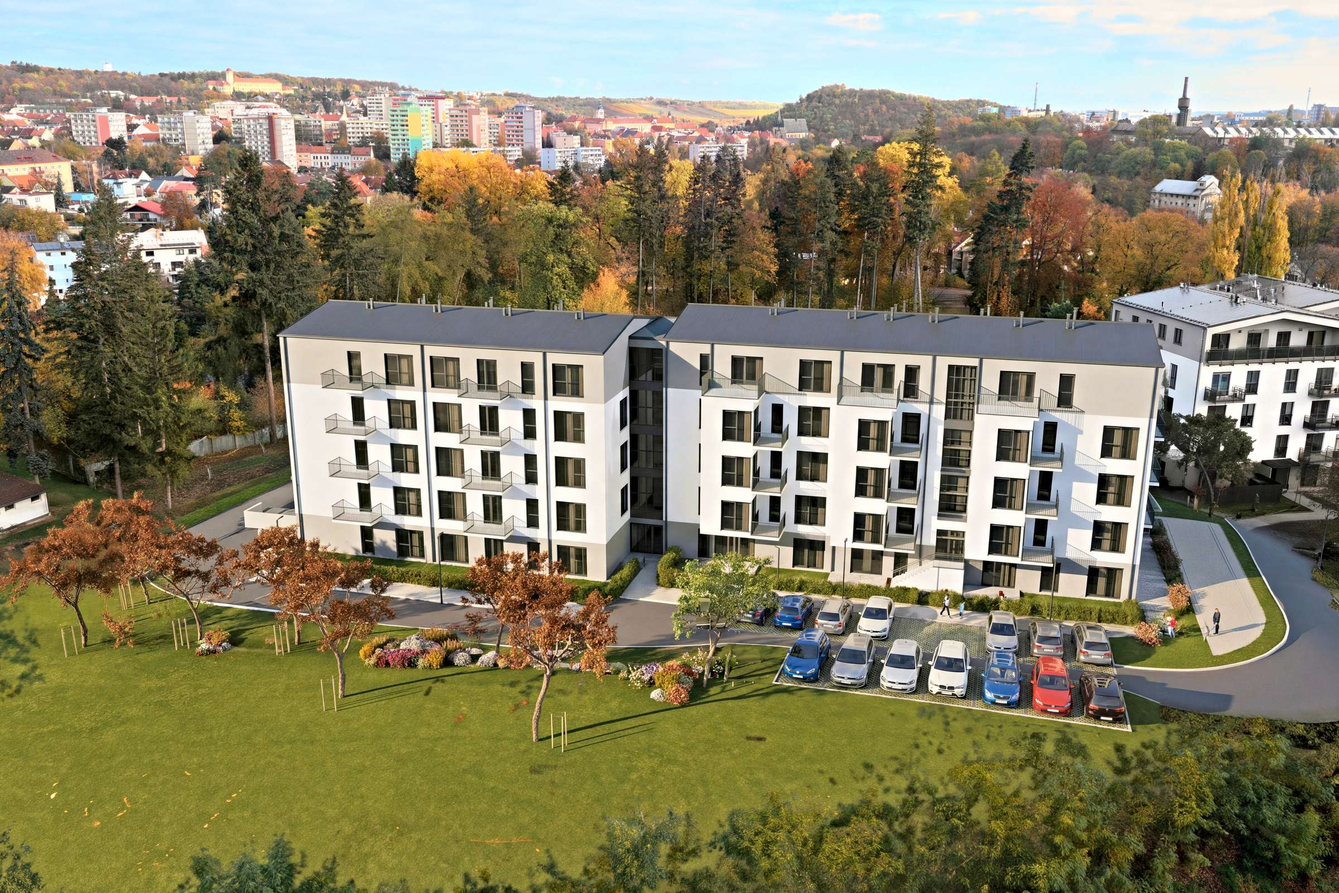
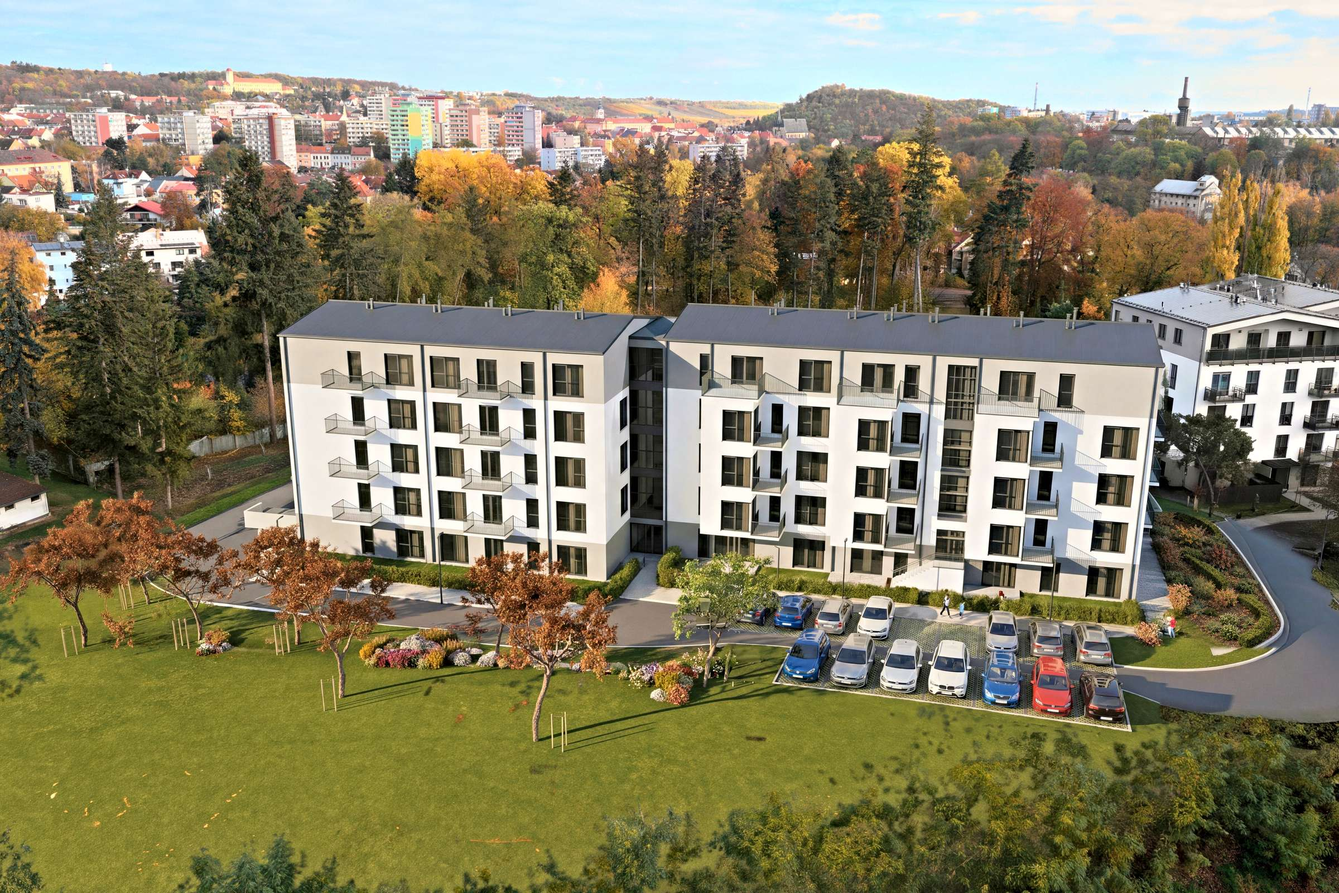
Průběh: D3 bez nesmyslné rampy (svahový záhon podle situace), stažené vadné pohledy

Changed region(s): [[0.8438, 0.5625, 0.9688, 0.75]]

diff --git a/prubeh/index.html b/prubeh/index.html
@@ -214,7 +214,7 @@
   .foto8 .vz{position:relative}
   .foto8 img{aspect-ratio:4/5!important;width:100%;object-fit:cover;display:block;cursor:zoom-in}
   .foto8 .lab{position:absolute;left:6px;bottom:6px;font-size:10.5px;letter-spacing:.06em;background:rgba(14,19,16,.75);color:#fff;padding:3px 7px;border-radius:3px}
-  .ms5{display:grid;grid-template-columns:repeat(5,minmax(0,1fr));gap:2px}
+  .ms5{display:grid;grid-template-columns:repeat(3,minmax(0,1fr));gap:2px}
   .ms5 .vz{position:relative}
   .ms5 img{aspect-ratio:3/2!important;width:100%;object-fit:cover;display:block;cursor:zoom-in}
   .ms5 .lab{position:absolute;left:6px;bottom:6px;font-size:10px;letter-spacing:.12em;text-transform:uppercase;background:rgba(14,19,16,.75);color:#fff;padding:3px 6px;border-radius:3px}
@@ -245,7 +245,7 @@
 
 <div class="pg">
 <div class="hero" style="height:520px">
-  <img src="img/hero_bb.jpg?v=202611021154" alt="Byty Borovského, Verde Slaný">
+  <img src="img/hero_bb.jpg?v=202611021259" alt="Byty Borovského, Verde Slaný">
   <div class="wrap">
     <div class="lockup"><svg class="glyph" viewBox="0 0 64 64"><g stroke="currentColor" stroke-width="5" stroke-linecap="round" fill="none"><line x1="32" y1="32" x2="17" y2="17"/><line x1="32" y1="32" x2="47" y2="17"/><line x1="32" y1="32" x2="17" y2="47"/><line x1="32" y1="32" x2="47" y2="47"/></g><g fill="none" stroke="currentColor" stroke-width="4.5"><circle cx="17" cy="17" r="8.5"/><circle cx="47" cy="17" r="8.5"/><circle cx="17" cy="47" r="8.5"/><circle cx="47" cy="47" r="8.5"/></g><rect x="25.5" y="25.5" width="13" height="13" rx="3.5" fill="currentColor"/></svg><div class="wstack"><span class="wtop">FRANTIŠEK</span><span class="wbot">DRON</span></div></div>
     <div class="eyebrow">Průběh postprodukce · stav k 2. 11. 2026 · Byty Borovského a Verde Slaný II</div>
@@ -258,19 +258,19 @@
 <section class="sec"><div class="wrap">
   <div class="eyebrow">Na čem pracujeme</div>
   <div class="done">
-    <figure><div class="trio"><img src="img/foto_obyvak.jpg?v=202611021154" alt="Obývák mezonetu"><img src="img/foto_ext.jpg?v=202611021154" alt="Byty Borovského"><img src="img/foto_dron.jpg?v=202611021154" alt="Slaný z dronu"></div>
+    <figure><div class="trio"><img src="img/foto_obyvak.jpg?v=202611021259" alt="Obývák mezonetu"><img src="img/foto_ext.jpg?v=202611021259" alt="Byty Borovského"><img src="img/foto_dron.jpg?v=202611021259" alt="Slaný z dronu"></div>
       <figcaption><span class="stav ceka">Rozpracováno</span><b>Fotky z natáčení</b>93 fotek bytu a okolí, každá složená z pěti expozic, v jednotné barvě. Teď je digitálně čistíme (kabely, záplaty na stropě, staveniště). Fotky z dronu nad stavbou doplníme.</figcaption></figure>
-    <figure><img src="img/so05_shora.jpg?v=202611021154" alt="Model domu SO 05 na mapě" style="aspect-ratio:16/9;object-position:center 60%">
+    <figure><img src="img/so05_shora.jpg?v=202611021259" alt="Model domu SO 05 na mapě" style="aspect-ratio:16/9;object-position:center 60%">
       <figcaption><span class="stav ceka">Rozpracováno</span><b>Dům vyroste: model druhé etapy</b>Dům SO 05 jsme postavili ve 3D podle projektové dokumentace a zasadili do mapy. Obrys sedí na parcelu v katastru. Až zpracujeme záběry z dronu, dům v nich vyroste patro po patru.</figcaption></figure>
-    <figure><img src="img/zakres_etapy.jpg?v=202611021154" alt="Vyznačení dalších etap">
+    <figure><img src="img/zakres_etapy.jpg?v=202611021259" alt="Vyznačení dalších etap">
       <figcaption><span class="stav ceka">Rozpracováno · ke schválení</span><b>Další etapy v jednom záběru</b>Domy, které teprve budou, decentně vyznačíme. Údaje na popiscích potvrď prosím v otázkách.</figcaption></figure>
-    <figure><div class="pair"><img src="img/grafika_titulek.jpg?v=202611021154" alt="Titulek Byty Borovského"><img src="img/grafika_karta.jpg?v=202611021154" alt="Závěrečná karta Verde Slaný"></div>
+    <figure><div class="pair"><img src="img/grafika_titulek.jpg?v=202611021259" alt="Titulek Byty Borovského"><img src="img/grafika_karta.jpg?v=202611021259" alt="Závěrečná karta Verde Slaný"></div>
       <figcaption><span class="stav ceka">Rozpracováno · ke schválení</span><b>Grafika podle vašeho logomanuálu</b>Titulky, popisky místností i závěrečná karta v barvách a skladbě loga Verde Slaný. U Bytů Borovského s lososovým akcentem z jejich loga.</figcaption></figure>
-    <figure><img src="img/slany_vyznaceni.jpg?v=202611021154" alt="Slaný z dronu s vyznačením Verde"><figcaption><span class="stav ceka">Rozpracováno</span>
+    <figure><img src="img/slany_vyznaceni.jpg?v=202611021259" alt="Slaný z dronu s vyznačením Verde"><figcaption><span class="stav ceka">Rozpracováno</span>
   <b>Slaný shora s vyznačením Verde</b>Verde, náměstí, kostel, obchody, autobusové nádraží, Kumpánova zahrada a koupaliště v jednom záběru z dronu.</figcaption></figure>
-    <figure class="wide"><div class="viz5"><div class="vz"><img src="img/viz/VIZ01_obyvak.jpg?v=202611021154" alt="Obývák s kuchyní, vizualizace"><span>Vizualizace</span></div><div class="vz"><img src="img/viz/VIZ02_kuchyn.jpg?v=202611021154" alt="Kuchyňský kout, vizualizace"><span>Vizualizace</span></div><div class="vz"><img src="img/viz/VIZ03_loznice.jpg?v=202611021154" alt="Ložnice, vizualizace"><span>Vizualizace</span></div><div class="vz"><img src="img/viz/VIZ04_detsky.jpg?v=202611021154" alt="Dětský pokoj, vizualizace"><span>Vizualizace</span></div><div class="vz"><img src="img/viz/VIZ05_podkrovi.jpg?v=202611021154" alt="Ložnice pod střechou, vizualizace"><span>Vizualizace</span></div></div>
+    <figure class="wide"><div class="viz5"><div class="vz"><img src="img/viz/VIZ01_obyvak.jpg?v=202611021259" alt="Obývák s kuchyní, vizualizace"><span>Vizualizace</span></div><div class="vz"><img src="img/viz/VIZ02_kuchyn.jpg?v=202611021259" alt="Kuchyňský kout, vizualizace"><span>Vizualizace</span></div><div class="vz"><img src="img/viz/VIZ03_loznice.jpg?v=202611021259" alt="Ložnice, vizualizace"><span>Vizualizace</span></div><div class="vz"><img src="img/viz/VIZ04_detsky.jpg?v=202611021259" alt="Dětský pokoj, vizualizace"><span>Vizualizace</span></div><div class="vz"><img src="img/viz/VIZ05_podkrovi.jpg?v=202611021259" alt="Ložnice pod střechou, vizualizace"><span>Vizualizace</span></div></div>
       <figcaption><span class="stav ceka">Rozpracováno · ke schválení</span><b>Zařízený mezonet: vizualizace</b>Jak může prázdný mezonet vypadat zařízený: obývák s kuchyní, ložnice, dětský pokoj a ložnice pod střechou. Stavba je přesně podle fotek, mění se jen nábytek. Ve filmu i v inzerátu vždy se štítkem „Vizualizace“.</figcaption></figure>
-    <figure><img src="img/grafika_popisek.jpg?v=202611021154" alt="Popisek místnosti v mezonetu">
+    <figure><img src="img/grafika_popisek.jpg?v=202611021259" alt="Popisek místnosti v mezonetu">
       <figcaption><span class="stav ceka">Rozpracováno</span><b>Film o mezonetu</b>Skládáme videoprohlídku mezonetu podle karty bytu. Popisky místností budou jako na obrázku. 3D prohlídka mezonetu je už hotová, najdeš ji níže.</figcaption></figure>
   </div>
 </div></section>
@@ -282,10 +282,10 @@
     <figure class="wide"><div class="m3d" id="m3d"><iframe src="model/index.html" title="3D model domu SO 05" loading="lazy" allow="fullscreen" allowfullscreen></iframe><button class="m3d-x" id="m3dx" type="button" aria-label="Zavřít celou obrazovku">✕ Zavřít</button></div>
       <figcaption><span class="stav ceka">Rozpracováno · ke schválení</span><b>3D model domu SO 05</b>Model domu podle projektové dokumentace. Táhnutím ho otočíš, kolečkem nebo dvěma prsty přiblížíš.
         <span class="btns"><button class="btn" id="m3dfull" type="button">Na celou obrazovku</button></span></figcaption></figure>
-    <figure><img src="img/tour_mezonet.jpg?v=202611021154" alt="Náhled 3D prohlídky mezonetu">
+    <figure><img src="img/tour_mezonet.jpg?v=202611021259" alt="Náhled 3D prohlídky mezonetu">
       <figcaption><span class="stav ceka">Rozpracováno</span><b>Mezonet v Bytech Borovského</b>Zatím není finální – jen pro představu, jak to zhruba bude vypadat. 3D prohlídka mezonetu podle fotek z natáčení a karty bytu. Zařízení je ilustrační vizualizace. Přepínačem Prázdný / Zařízený se přepíná mezi prázdným a zařízeným bytem.
         <span class="btns"><a class="btn" href="prohlidka-mezonet/" target="_blank" rel="noopener">Projít ve 3D</a></span></figcaption></figure>
-    <figure><img src="img/tour_byt.jpg?v=202611021154" alt="Náhled 3D prohlídky typového bytu">
+    <figure><img src="img/tour_byt.jpg?v=202611021259" alt="Náhled 3D prohlídky typového bytu">
       <figcaption><span class="stav ceka">Rozpracováno</span><b>Typový byt 3+kk ve druhé etapě</b>Zatím není finální – jen pro představu, jak to zhruba bude vypadat. Byt B.3.3, nejčastější typ v domě (8 bytů), asi 65 m² podle projektové dokumentace. Dům se staví, model je podle výkresů. Zařízení je ilustrační vizualizace, přepínač Prázdný / Zařízený je stejný.
         <span class="btns"><a class="btn" href="prohlidka-byt/" target="_blank" rel="noopener">Projít ve 3D</a></span></figcaption></figure>
   </div>
@@ -297,17 +297,17 @@
   <div class="eyebrow">Dům v záběrech z dronu: vizualizace</div>
   <p class="lead">Dům podle projektové dokumentace jsme vložili do skutečných fotek z dronu a dotáhli do realistické podoby i s okolím, auty a lidmi. Je to rozpracovaná ilustrace k odsouhlasení: okolí vychází ze situace architekta, sousední plochy dalších etap ukazujeme jako upravený trávník, jeřáb a staveniště jsou pryč.</p>
   <div class="done">
-    <figure class="wide"><div class="viz4"><div class="vz zm"><img src="img/viz_d1.jpg?v=202611021154" alt="Top shot, vizualizace domu v záběru z dronu"><span class="lab">Vizualizace</span></div><div class="vz zm"><img src="img/viz_d2.jpg?v=202611021154" alt="Pohled od západu, vizualizace domu v záběru z dronu"><span class="lab">Vizualizace</span></div><div class="vz zm"><img src="img/viz_d3.jpg?v=202611021154" alt="Pohled od jihozápadu, vizualizace domu v záběru z dronu"><span class="lab">Vizualizace</span></div><div class="vz zm"><img src="img/viz_d4.jpg?v=202611021154" alt="Pohled od severovýchodu, vizualizace domu v záběru z dronu"><span class="lab">Vizualizace</span></div></div>
+    <figure class="wide"><div class="viz4"><div class="vz zm"><img src="img/viz_d1.jpg?v=202611021259" alt="Top shot, vizualizace domu v záběru z dronu"><span class="lab">Vizualizace</span></div><div class="vz zm"><img src="img/viz_d2.jpg?v=202611021259" alt="Pohled od západu, vizualizace domu v záběru z dronu"><span class="lab">Vizualizace</span></div><div class="vz zm"><img src="img/viz_d3.jpg?v=202611021259" alt="Pohled od jihozápadu, vizualizace domu v záběru z dronu"><span class="lab">Vizualizace</span></div><div class="vz zm"><img src="img/viz_d4.jpg?v=202611021259" alt="Pohled od severovýchodu, vizualizace domu v záběru z dronu"><span class="lab">Vizualizace</span></div></div>
       <figcaption><span class="stav ceka">Rozpracováno · ke schválení</span><b>Čtyři pohledy: top shot, od západu, od jihozápadu a od severovýchodu</b>Klikem obrázek zvětšíš. Ve filmu i v inzerátu budou vždy se štítkem „Vizualizace“.</figcaption></figure>
   </div>
 </div></section>
 
 <section class="sec"><div class="wrap">
   <div class="eyebrow">Další pohledy na druhou etapu: vizualizace</div>
-  <p class="lead">Z hotových vizualizací z dronu jsme nechali dopočítat i další úhly – z chodníku, z nízkého dronu, z trávníku, večer v modré hodině i Verde v celém Slaném. Slouží jako podklad pro film, ve filmu budou vždy se štítkem „Vizualizace“.</p>
+  <p class="lead">Z hotových vizualizací z dronu jsme nechali dopočítat i další úhly – z chodníku u parkoviště, večer v modré hodině a z trávníku mezi stromy. Slouží jako podklad pro film, ve filmu budou vždy se štítkem „Vizualizace“.</p>
   <div class="done">
-    <figure class="wide"><div class="ms5"><div class="vz zm"><img src="img/multishot/ms_1.jpg?v=202611021154" alt="Z chodníku u parkoviště, vizualizace"><span class="lab">Vizualizace</span></div><div class="vz zm"><img src="img/multishot/ms_2.jpg?v=202611021154" alt="Nízký dron před fasádou, vizualizace"><span class="lab">Vizualizace</span></div><div class="vz zm"><img src="img/multishot/ms_3.jpg?v=202611021154" alt="Večer, modrá hodina, vizualizace"><span class="lab">Vizualizace</span></div><div class="vz zm"><img src="img/multishot/ms_4.jpg?v=202611021154" alt="Z trávníku mezi stromy, vizualizace"><span class="lab">Vizualizace</span></div><div class="vz zm"><img src="img/multishot/ms_5.jpg?v=202611021154" alt="Verde a celé Slaný, vizualizace"><span class="lab">Vizualizace</span></div></div>
-      <figcaption><span class="stav ceka">Rozpracováno · ke schválení</span><b>Z chodníku u parkoviště · Nízký dron před fasádou · Večer, modrá hodina · Z trávníku mezi stromy · Verde a celé Slaný</b>Ilustrační pohledy – detaily okolí se ve finálu mohou lišit. Klikem obrázek zvětšíš.</figcaption></figure>
+    <figure class="wide"><div class="ms5"><div class="vz zm"><img src="img/multishot/ms_1.jpg?v=202611021259" alt="Z chodníku u parkoviště, vizualizace"><span class="lab">Vizualizace</span></div><div class="vz zm"><img src="img/multishot/ms_2.jpg?v=202611021259" alt="Večer, modrá hodina, vizualizace"><span class="lab">Vizualizace</span></div><div class="vz zm"><img src="img/multishot/ms_3.jpg?v=202611021259" alt="Z trávníku mezi stromy, vizualizace"><span class="lab">Vizualizace</span></div></div>
+      <figcaption><span class="stav ceka">Rozpracováno · ke schválení</span><b>Z chodníku u parkoviště · Večer, modrá hodina · Z trávníku mezi stromy</b>Ilustrační pohledy – detaily okolí se ve finálu mohou lišit. Klikem obrázek zvětšíš.</figcaption></figure>
   </div>
 </div></section>
 
@@ -315,7 +315,7 @@
   <div class="eyebrow">Fotky z dronu</div>
   <p class="lead">Výběr z fotek z dronu z 29. 10. v jednotných barvách. Celou sadu pošleme po finálních úpravách.</p>
   <div class="done">
-    <figure class="wide"><div class="dron6"><div class="vz zm"><img src="img/dron/dron_1.jpg?v=202611021154" alt="Areál se stavbou druhé etapy"><span class="lab">Areál se stavbou druhé etapy</span></div><div class="vz zm"><img src="img/dron/dron_2.jpg?v=202611021154" alt="Verde I a stavba, v pozadí Slaný"><span class="lab">Verde I a stavba, v pozadí Slaný</span></div><div class="vz zm"><img src="img/dron/dron_3.jpg?v=202611021154" alt="Kumpánova zahrada a město"><span class="lab">Kumpánova zahrada a město</span></div><div class="vz zm"><img src="img/dron/dron_4.jpg?v=202611021154" alt="Kostel a centrum"><span class="lab">Kostel a centrum</span></div><div class="vz zm"><img src="img/dron/dron_5.jpg?v=202611021154" alt="Masarykovo náměstí"><span class="lab">Masarykovo náměstí</span></div><div class="vz zm"><img src="img/dron/dron_6.jpg?v=202611021154" alt="Slaný z výšky"><span class="lab">Slaný z výšky</span></div><div class="vz zm"><img src="img/dron/dron_7.jpg?v=202611021154" alt="Panorama Slaného"><span class="lab">Panorama Slaného</span></div><div class="vz zm"><img src="img/dron/dron_8.jpg?v=202611021154" alt="Kostel, nádraží a vinice"><span class="lab">Kostel, nádraží a vinice</span></div><div class="vz zm"><img src="img/dron/dron_9.jpg?v=202611021154" alt="Verde I a zámek v pozadí"><span class="lab">Verde I a zámek v pozadí</span></div></div>
+    <figure class="wide"><div class="dron6"><div class="vz zm"><img src="img/dron/dron_1.jpg?v=202611021259" alt="Areál se stavbou druhé etapy"><span class="lab">Areál se stavbou druhé etapy</span></div><div class="vz zm"><img src="img/dron/dron_2.jpg?v=202611021259" alt="Verde I a stavba, v pozadí Slaný"><span class="lab">Verde I a stavba, v pozadí Slaný</span></div><div class="vz zm"><img src="img/dron/dron_3.jpg?v=202611021259" alt="Kumpánova zahrada a město"><span class="lab">Kumpánova zahrada a město</span></div><div class="vz zm"><img src="img/dron/dron_4.jpg?v=202611021259" alt="Kostel a centrum"><span class="lab">Kostel a centrum</span></div><div class="vz zm"><img src="img/dron/dron_5.jpg?v=202611021259" alt="Masarykovo náměstí"><span class="lab">Masarykovo náměstí</span></div><div class="vz zm"><img src="img/dron/dron_6.jpg?v=202611021259" alt="Slaný z výšky"><span class="lab">Slaný z výšky</span></div><div class="vz zm"><img src="img/dron/dron_7.jpg?v=202611021259" alt="Panorama Slaného"><span class="lab">Panorama Slaného</span></div><div class="vz zm"><img src="img/dron/dron_8.jpg?v=202611021259" alt="Kostel, nádraží a vinice"><span class="lab">Kostel, nádraží a vinice</span></div><div class="vz zm"><img src="img/dron/dron_9.jpg?v=202611021259" alt="Verde I a zámek v pozadí"><span class="lab">Verde I a zámek v pozadí</span></div></div>
       <figcaption><span class="stav ceka">Rozpracováno · ke schválení</span><b>Areál, Verde I a Slaný z dronu</b>Devět nejlepších z 64 fotek z dronu. Klikem obrázek zvětšíš.</figcaption></figure>
   </div>
 </div></section>
@@ -324,7 +324,7 @@
   <div class="eyebrow">Fotky z natáčení: byty a okolí ze země</div>
   <p class="lead">Výběr z 93 fotek z 29. 10. – mezonet v Bytech Borovského a jeho okolí. Každá fotka je složená z pěti expozic, barvy jsou sjednocené. Digitální úklid (kabely, záplaty na stropě, staveniště) ještě probíhá.</p>
   <div class="done">
-    <figure class="wide"><div class="foto8"><div class="vz zm"><img src="img/foto/fotky_byty_1.jpg?v=202611021154" alt="Obývák s kamny"><span class="lab">Obývák s kamny</span></div><div class="vz zm"><img src="img/foto/fotky_byty_2.jpg?v=202611021154" alt="Galerie pod střechou"><span class="lab">Galerie pod střechou</span></div><div class="vz zm"><img src="img/foto/fotky_byty_3.jpg?v=202611021154" alt="Ložnice s balkonem"><span class="lab">Ložnice s balkonem</span></div><div class="vz zm"><img src="img/foto/fotky_byty_4.jpg?v=202611021154" alt="Pokoj se střešním oknem"><span class="lab">Pokoj se střešním oknem</span></div><div class="vz zm"><img src="img/foto/fotky_byty_5.jpg?v=202611021154" alt="Terasa s výhledem"><span class="lab">Terasa s výhledem</span></div><div class="vz zm"><img src="img/foto/fotky_zeme_1.jpg?v=202611021154" alt="Byty Borovského, štít a stromy"><span class="lab">Byty Borovského, štít a stromy</span></div><div class="vz zm"><img src="img/foto/fotky_zeme_2.jpg?v=202611021154" alt="Byty Borovského od ulice"><span class="lab">Byty Borovského od ulice</span></div><div class="vz zm"><img src="img/foto/fotky_zeme_3.jpg?v=202611021154" alt="Výhled z terasy do krajiny"><span class="lab">Výhled z terasy do krajiny</span></div></div>
+    <figure class="wide"><div class="foto8"><div class="vz zm"><img src="img/foto/fotky_byty_1.jpg?v=202611021259" alt="Obývák s kamny"><span class="lab">Obývák s kamny</span></div><div class="vz zm"><img src="img/foto/fotky_byty_2.jpg?v=202611021259" alt="Galerie pod střechou"><span class="lab">Galerie pod střechou</span></div><div class="vz zm"><img src="img/foto/fotky_byty_3.jpg?v=202611021259" alt="Ložnice s balkonem"><span class="lab">Ložnice s balkonem</span></div><div class="vz zm"><img src="img/foto/fotky_byty_4.jpg?v=202611021259" alt="Pokoj se střešním oknem"><span class="lab">Pokoj se střešním oknem</span></div><div class="vz zm"><img src="img/foto/fotky_byty_5.jpg?v=202611021259" alt="Terasa s výhledem"><span class="lab">Terasa s výhledem</span></div><div class="vz zm"><img src="img/foto/fotky_zeme_1.jpg?v=202611021259" alt="Byty Borovského, štít a stromy"><span class="lab">Byty Borovského, štít a stromy</span></div><div class="vz zm"><img src="img/foto/fotky_zeme_2.jpg?v=202611021259" alt="Byty Borovského od ulice"><span class="lab">Byty Borovského od ulice</span></div><div class="vz zm"><img src="img/foto/fotky_zeme_3.jpg?v=202611021259" alt="Výhled z terasy do krajiny"><span class="lab">Výhled z terasy do krajiny</span></div></div>
       <figcaption><span class="stav ceka">Rozpracováno · ke schválení</span><b>Mezonet, terasa a Byty Borovského ze země</b>Klikem obrázek zvětšíš.</figcaption></figure>
   </div>
 </div></section>
@@ -333,7 +333,7 @@
   <div class="eyebrow">Potřebujeme od tebe</div>
   <p class="lead">Vyplň, co víš, a klikni na Odeslat. Odeslat můžeš i víckrát, odeslané odpovědi uvidíš dole.</p>
   <form class="form" id="fm" onsubmit="return false">
-    <div class="q need" data-q="povoleni" data-label="Další etapy: stavební povolení a termíny"><h4>Další etapy: stavební povolení a termíny</h4><p class="h">Na popisky SO 01 (dům do U), SO 03 a SO 04 bychom rádi napsali „stavební povolení vydáno“. Jak to je? A chcete tam i termíny nebo jiné názvy (třeba 3. / 4. / 5. etapa)?</p><div class="opts"><label><input type="radio" name="povoleni" value="Vydané a pravomocné u všech tří"><span>Vydané a pravomocné u všech tří</span></label><label><input type="radio" name="povoleni" value="Vydané, zatím ne pravomocné"><span>Vydané, zatím ne pravomocné</span></label><label><input type="radio" name="povoleni" value="U některých ještě ne"><span>U některých ještě ne</span></label><label><input type="radio" name="povoleni" value="Zatím ne"><span>Zatím ne</span></label></div><textarea id="n_povoleni" data-note="povoleni" placeholder="Termíny, názvy, upřesnění"></textarea></div><div class="q" data-q="udaje" data-label="Údaje ve filmech"><h4>Údaje ve filmech</h4><p class="h">Druhá etapa: 48 bytů, kolaudace 2Q 2028. Byty Borovského: zkolaudované, předání koncem roku. Sedí to a smíme to tak uvést?</p><div class="opts"><label><input type="radio" name="udaje" value="Sedí"><span>Sedí</span></label><label><input type="radio" name="udaje" value="Upravit"><span>Upravit</span></label></div><textarea id="n_udaje" data-note="udaje" placeholder="Co upravit"></textarea></div><div class="q" data-q="vysky" data-label="Světlá výška v mezonetu"><h4>Světlá výška v mezonetu</h4><p class="h">Pro 3D prohlídku: jaká je světlá výška dole (chodba, ložnice) a v jaké výšce je podlaha horního patra? Z fotek a karty bytu nám vychází dole 2,58–2,69 m a podlaha horního patra 2,95 m.</p><div class="opts"><label><input type="radio" name="vysky" value="Sedí to"><span>Sedí to</span></label><label><input type="radio" name="vysky" value="Pošlu řez e-mailem"><span>Pošlu řez e-mailem</span></label><label><input type="radio" name="vysky" value="Napíšu sem"><span>Napíšu sem</span></label></div><textarea id="n_vysky" data-note="vysky" placeholder="Např. dole 2,60 m, podlaha horního patra 2,95 m"></textarea></div><div class="q" data-q="hudba" data-label="Hudba k filmům"><h4>Hudba k filmům</h4><p class="h">Tři ukázky (30 s), všechny instrumentální. Vyber, která se ti k filmům líbí nejvíc.</p><div class="hud"><label class="opts"><input type="radio" name="hudba" value="A"><span>A</span></label><span class="hn">moderní, klidná, prémiová</span><audio controls preload="none" src="hudba/A.mp3?v=202611021154"></audio></div><div class="hud"><label class="opts"><input type="radio" name="hudba" value="B"><span>B</span></label><span class="hn">klavír s výraznějším basem</span><audio controls preload="none" src="hudba/B.mp3?v=202611021154"></audio></div><div class="hud"><label class="opts"><input type="radio" name="hudba" value="C"><span>C</span></label><span class="hn">uvolněná, jazzová</span><audio controls preload="none" src="hudba/C.mp3?v=202611021154"></audio></div><textarea id="n_hudba" data-note="hudba" placeholder="Poznámka k hudbě (nepovinné)"></textarea></div><div class="q need" data-q="kontakt" data-label="Kontakt na závěrečnou kartu"><h4>Kontakt na závěrečnou kartu</h4><p class="h">Web, telefon a jméno na konec filmů.</p><textarea id="n_kontakt" data-note="kontakt" placeholder="Např. verdeslany.cz · +420 … · jméno"></textarea></div><div class="q" data-q="styl" data-label="Styl zařízení mezonetu"><h4>Styl zařízení mezonetu</h4><p class="h">Pět vizualizací nahoře: skandinávský styl, světlý dub, len a olivové doplňky. Sedí to na kupce Bytů Borovského?</p><div class="opts"><label><input type="radio" name="styl" value="Schvaluji"><span>Schvaluji</span></label><label><input type="radio" name="styl" value="Chci jiný styl"><span>Chci jiný styl</span></label></div><textarea id="n_styl" data-note="styl" placeholder="Co změnit (styl, barvy, nábytek)"></textarea></div><div class="q" data-q="byt2" data-label="Sedí výběr bytu?"><h4>Sedí výběr bytu?</h4><p class="h">Prohlídka typového bytu už je hotová (výše): byt B.3.3, 3+kk, asi 65 m² podle projektové dokumentace, nejčastější typ domu (8 bytů). Sedí tenhle byt, nebo máme udělat jiný?</p><div class="opts"><label><input type="radio" name="byt2" value="Sedí"><span>Sedí</span></label><label><input type="radio" name="byt2" value="Chci jiný byt, napíšu"><span>Chci jiný byt, napíšu</span></label></div><textarea id="n_byt2" data-note="byt2" placeholder="Číslo bytu nebo poznámka"></textarea></div><div class="q" data-q="fasada" data-label="Bílá fasáda: stejná jako u první etapy?"><h4>Bílá fasáda: stejná jako u první etapy?</h4><p class="h">Podle projektové dokumentace má druhá etapa bílou omítku Baumit SilikonTop 0019 a šedou 0436. Má být bílá stejná jako u hotových domů první etapy, aby na fotkách a ve filmu působily stejně?</p><div class="opts"><label><input type="radio" name="fasada" value="Ano, stejná bílá"><span>Ano, stejná bílá</span></label><label><input type="radio" name="fasada" value="Ne, je jiná"><span>Ne, je jiná</span></label><label><input type="radio" name="fasada" value="Nevím, zjistím"><span>Nevím, zjistím</span></label></div><textarea id="n_fasada" data-note="fasada" placeholder="Upřesnění (nepovinné)"></textarea></div><div class="q" data-q="model3d" data-label="Schválení: 3D model domu a vizualizace z dronu"><h4>Schválení: 3D model domu a vizualizace z dronu</h4><p class="h">3D model domu SO 05, dvě 3D prohlídky a čtyři vizualizace domu v záběrech z dronu (výše). Schvaluješ, nebo napiš, co upravit.</p><div class="opts"><label><input type="radio" name="model3d" value="Schvaluji"><span>Schvaluji</span></label><label><input type="radio" name="model3d" value="Chci upravit"><span>Chci upravit</span></label></div><textarea id="n_model3d" data-note="model3d" placeholder="Co upravit"></textarea></div><div class="q" data-q="schvaleni" data-label="Schválení: grafika titulků, vyznačení Slaného a další etapy"><h4>Schválení: grafika titulků, vyznačení Slaného a další etapy</h4><p class="h">Obrázky nahoře: Slaný s vyznačením Verde, další etapy v jednom záběru a grafika titulků. 3D model a vizualizace z dronu schvaluješ zvlášť o otázku výš.</p><div class="opts"><label><input type="radio" name="schvaleni" value="Schvaluji"><span>Schvaluji</span></label><label><input type="radio" name="schvaleni" value="Chci upravit"><span>Chci upravit</span></label></div><textarea id="n_schvaleni" data-note="schvaleni" placeholder="Co upravit"></textarea></div>
+    <div class="q need" data-q="povoleni" data-label="Další etapy: stavební povolení a termíny"><h4>Další etapy: stavební povolení a termíny</h4><p class="h">Na popisky SO 01 (dům do U), SO 03 a SO 04 bychom rádi napsali „stavební povolení vydáno“. Jak to je? A chcete tam i termíny nebo jiné názvy (třeba 3. / 4. / 5. etapa)?</p><div class="opts"><label><input type="radio" name="povoleni" value="Vydané a pravomocné u všech tří"><span>Vydané a pravomocné u všech tří</span></label><label><input type="radio" name="povoleni" value="Vydané, zatím ne pravomocné"><span>Vydané, zatím ne pravomocné</span></label><label><input type="radio" name="povoleni" value="U některých ještě ne"><span>U některých ještě ne</span></label><label><input type="radio" name="povoleni" value="Zatím ne"><span>Zatím ne</span></label></div><textarea id="n_povoleni" data-note="povoleni" placeholder="Termíny, názvy, upřesnění"></textarea></div><div class="q" data-q="udaje" data-label="Údaje ve filmech"><h4>Údaje ve filmech</h4><p class="h">Druhá etapa: 48 bytů, kolaudace 2Q 2028. Byty Borovského: zkolaudované, předání koncem roku. Sedí to a smíme to tak uvést?</p><div class="opts"><label><input type="radio" name="udaje" value="Sedí"><span>Sedí</span></label><label><input type="radio" name="udaje" value="Upravit"><span>Upravit</span></label></div><textarea id="n_udaje" data-note="udaje" placeholder="Co upravit"></textarea></div><div class="q" data-q="vysky" data-label="Světlá výška v mezonetu"><h4>Světlá výška v mezonetu</h4><p class="h">Pro 3D prohlídku: jaká je světlá výška dole (chodba, ložnice) a v jaké výšce je podlaha horního patra? Z fotek a karty bytu nám vychází dole 2,58–2,69 m a podlaha horního patra 2,95 m.</p><div class="opts"><label><input type="radio" name="vysky" value="Sedí to"><span>Sedí to</span></label><label><input type="radio" name="vysky" value="Pošlu řez e-mailem"><span>Pošlu řez e-mailem</span></label><label><input type="radio" name="vysky" value="Napíšu sem"><span>Napíšu sem</span></label></div><textarea id="n_vysky" data-note="vysky" placeholder="Např. dole 2,60 m, podlaha horního patra 2,95 m"></textarea></div><div class="q" data-q="hudba" data-label="Hudba k filmům"><h4>Hudba k filmům</h4><p class="h">Tři ukázky (30 s), všechny instrumentální. Vyber, která se ti k filmům líbí nejvíc.</p><div class="hud"><label class="opts"><input type="radio" name="hudba" value="A"><span>A</span></label><span class="hn">moderní, klidná, prémiová</span><audio controls preload="none" src="hudba/A.mp3?v=202611021259"></audio></div><div class="hud"><label class="opts"><input type="radio" name="hudba" value="B"><span>B</span></label><span class="hn">klavír s výraznějším basem</span><audio controls preload="none" src="hudba/B.mp3?v=202611021259"></audio></div><div class="hud"><label class="opts"><input type="radio" name="hudba" value="C"><span>C</span></label><span class="hn">uvolněná, jazzová</span><audio controls preload="none" src="hudba/C.mp3?v=202611021259"></audio></div><textarea id="n_hudba" data-note="hudba" placeholder="Poznámka k hudbě (nepovinné)"></textarea></div><div class="q need" data-q="kontakt" data-label="Kontakt na závěrečnou kartu"><h4>Kontakt na závěrečnou kartu</h4><p class="h">Web, telefon a jméno na konec filmů.</p><textarea id="n_kontakt" data-note="kontakt" placeholder="Např. verdeslany.cz · +420 … · jméno"></textarea></div><div class="q" data-q="styl" data-label="Styl zařízení mezonetu"><h4>Styl zařízení mezonetu</h4><p class="h">Pět vizualizací nahoře: skandinávský styl, světlý dub, len a olivové doplňky. Sedí to na kupce Bytů Borovského?</p><div class="opts"><label><input type="radio" name="styl" value="Schvaluji"><span>Schvaluji</span></label><label><input type="radio" name="styl" value="Chci jiný styl"><span>Chci jiný styl</span></label></div><textarea id="n_styl" data-note="styl" placeholder="Co změnit (styl, barvy, nábytek)"></textarea></div><div class="q" data-q="byt2" data-label="Sedí výběr bytu?"><h4>Sedí výběr bytu?</h4><p class="h">Prohlídka typového bytu už je hotová (výše): byt B.3.3, 3+kk, asi 65 m² podle projektové dokumentace, nejčastější typ domu (8 bytů). Sedí tenhle byt, nebo máme udělat jiný?</p><div class="opts"><label><input type="radio" name="byt2" value="Sedí"><span>Sedí</span></label><label><input type="radio" name="byt2" value="Chci jiný byt, napíšu"><span>Chci jiný byt, napíšu</span></label></div><textarea id="n_byt2" data-note="byt2" placeholder="Číslo bytu nebo poznámka"></textarea></div><div class="q" data-q="fasada" data-label="Bílá fasáda: stejná jako u první etapy?"><h4>Bílá fasáda: stejná jako u první etapy?</h4><p class="h">Podle projektové dokumentace má druhá etapa bílou omítku Baumit SilikonTop 0019 a šedou 0436. Má být bílá stejná jako u hotových domů první etapy, aby na fotkách a ve filmu působily stejně?</p><div class="opts"><label><input type="radio" name="fasada" value="Ano, stejná bílá"><span>Ano, stejná bílá</span></label><label><input type="radio" name="fasada" value="Ne, je jiná"><span>Ne, je jiná</span></label><label><input type="radio" name="fasada" value="Nevím, zjistím"><span>Nevím, zjistím</span></label></div><textarea id="n_fasada" data-note="fasada" placeholder="Upřesnění (nepovinné)"></textarea></div><div class="q" data-q="model3d" data-label="Schválení: 3D model domu a vizualizace z dronu"><h4>Schválení: 3D model domu a vizualizace z dronu</h4><p class="h">3D model domu SO 05, dvě 3D prohlídky a čtyři vizualizace domu v záběrech z dronu (výše). Schvaluješ, nebo napiš, co upravit.</p><div class="opts"><label><input type="radio" name="model3d" value="Schvaluji"><span>Schvaluji</span></label><label><input type="radio" name="model3d" value="Chci upravit"><span>Chci upravit</span></label></div><textarea id="n_model3d" data-note="model3d" placeholder="Co upravit"></textarea></div><div class="q" data-q="schvaleni" data-label="Schválení: grafika titulků, vyznačení Slaného a další etapy"><h4>Schválení: grafika titulků, vyznačení Slaného a další etapy</h4><p class="h">Obrázky nahoře: Slaný s vyznačením Verde, další etapy v jednom záběru a grafika titulků. 3D model a vizualizace z dronu schvaluješ zvlášť o otázku výš.</p><div class="opts"><label><input type="radio" name="schvaleni" value="Schvaluji"><span>Schvaluji</span></label><label><input type="radio" name="schvaleni" value="Chci upravit"><span>Chci upravit</span></label></div><textarea id="n_schvaleni" data-note="schvaleni" placeholder="Co upravit"></textarea></div>
     <div class="q" data-q="jmeno" data-label="Od"><input type="text" id="n_jmeno" data-note="jmeno" placeholder="Jméno (nepovinné)" style="margin-top:0"></div>
     <div class="sendrow"><button class="send" id="send" type="button">Odeslat odpovědi</button><span id="st"></span></div>
   </form>
